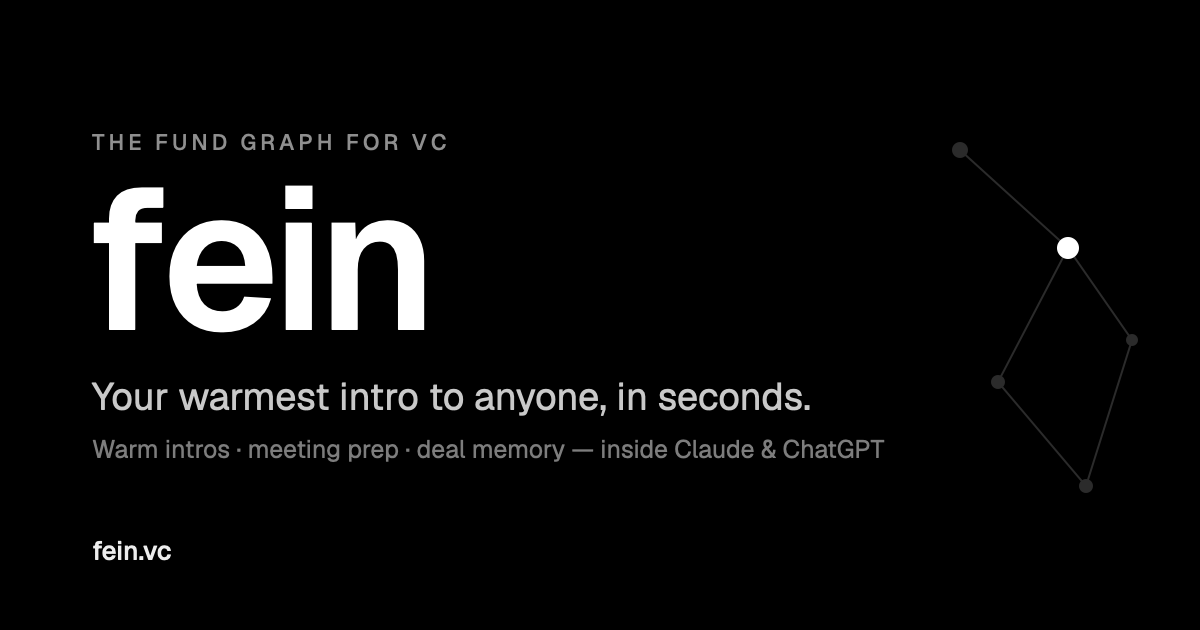
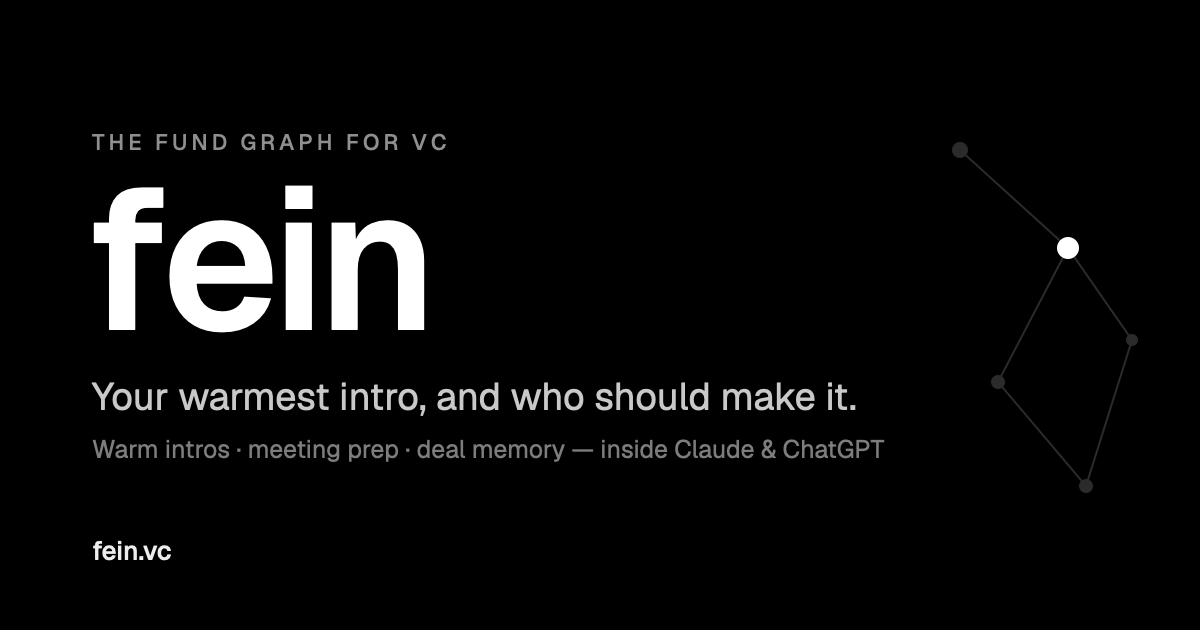
Rewrite copy: pain-agitate-solution, outcome-focused, anti-slop
From a Vicunea + Affinity analysis workflow. Concrete receipts over adjectives,
simpler and more accessible throughout; OG image + JSON-LD FAQ updated to match.

Changed region(s): [[0.3392, 0.6032, 0.7092, 0.6635]]

diff --git a/index.html b/index.html
@@ -4,7 +4,7 @@
 <meta charset="utf-8">
 <meta name="viewport" content="width=device-width, initial-scale=1">
 <title>fein — the fund graph for venture capital</title>
-<meta name="description" content="fein turns your fund's inbox, calendar, and CRM into one live map of who knows whom — and answers from inside Claude and ChatGPT. Warm intros, meeting prep, and every deal you've seen. Live in 14 days, self-hosted on your own infrastructure.">
+<meta name="description" content="fein connects your fund's inbox, calendar, Drive, and CRM into one map of who knows whom, and answers from inside Claude and ChatGPT: the warmest path to a founder, meeting prep, and why you passed last time. Live in 14 days, self-hosted.">
 <link rel="canonical" href="https://fein.vc/">
 <meta name="robots" content="index, follow, max-image-preview:large, max-snippet:-1">
 <meta name="color-scheme" content="light dark">
@@ -17,7 +17,7 @@
 <meta property="og:type" content="website">
 <meta property="og:site_name" content="fein">
 <meta property="og:title" content="fein — the fund graph for venture capital">
-<meta property="og:description" content="fein turns your fund's inbox, calendar, and CRM into one live map of who knows whom — and answers from inside Claude and ChatGPT. Warm intros, meeting prep, and every deal you've seen. Live in 14 days, self-hosted on your own infrastructure.">
+<meta property="og:description" content="fein connects your fund's inbox, calendar, Drive, and CRM into one map of who knows whom, and answers from inside Claude and ChatGPT: the warmest path to a founder, meeting prep, and why you passed last time. Live in 14 days, self-hosted.">
 <meta property="og:url" content="https://fein.vc/">
 <meta property="og:image" content="https://fein.vc/og.png">
 <meta property="og:image:width" content="1200">
@@ -25,7 +25,7 @@
 <meta property="og:image:alt" content="fein — the fund graph for venture capital">
 <meta name="twitter:card" content="summary_large_image">
 <meta name="twitter:title" content="fein — the fund graph for venture capital">
-<meta name="twitter:description" content="fein turns your fund's inbox, calendar, and CRM into one live map of who knows whom — and answers from inside Claude and ChatGPT. Warm intros, meeting prep, and every deal you've seen. Live in 14 days, self-hosted on your own infrastructure.">
+<meta name="twitter:description" content="fein connects your fund's inbox, calendar, Drive, and CRM into one map of who knows whom, and answers from inside Claude and ChatGPT: the warmest path to a founder, meeting prep, and why you passed last time. Live in 14 days, self-hosted.">
 <meta name="twitter:image" content="https://fein.vc/og.png">
 <style>
[1 lines of base64/hex data omitted]
@@ -228,7 +228,7 @@
     *{animation-duration:.001ms!important;animation-iteration-count:1!important;transition-duration:.001ms!important}
   }
 </style>
-<script type="application/ld+json">{"@context":"https://schema.org","@graph":[{"@type":"Organization","@id":"https://fein.vc/#org","name":"fein","url":"https://fein.vc/","description":"fein turns your fund's inbox, calendar, and CRM into one live map of who knows whom — and answers from inside Claude and ChatGPT. Warm intros, meeting prep, and every deal you've seen. Live in 14 days, self-hosted on your own infrastructure.","email":"hello@fein.vc","logo":"https://fein.vc/favicon.svg"},{"@type":"WebSite","@id":"https://fein.vc/#website","url":"https://fein.vc/","name":"fein","inLanguage":"en","publisher":{"@id":"https://fein.vc/#org"}},{"@type":"WebPage","@id":"https://fein.vc/#webpage","url":"https://fein.vc/","name":"fein — the fund graph for venture capital","description":"fein turns your fund's inbox, calendar, and CRM into one live map of who knows whom — and answers from inside Claude and ChatGPT. Warm intros, meeting prep, and every deal you've seen. Live in 14 days, self-hosted on your own infrastructure.","isPartOf":{"@id":"https://fein.vc/#website"},"about":{"@id":"https://fein.vc/#org"},"inLanguage":"en"},{"@type":"SoftwareApplication","name":"fein","applicationCategory":"BusinessApplication","operatingSystem":"Web (self-hosted)","description":"fein turns your fund's inbox, calendar, and CRM into one live map of who knows whom — and answers from inside Claude and ChatGPT. Warm intros, meeting prep, and every deal you've seen. Live in 14 days, self-hosted on your own infrastructure.","url":"https://fein.vc/","provider":{"@id":"https://fein.vc/#org"},"audience":{"@type":"Audience","audienceType":"Venture capital funds"},"offers":[{"@type":"Offer","name":"Build","price":"5000","priceCurrency":"USD","description":"One-time setup and build"},{"@type":"Offer","name":"Maintenance","priceCurrency":"USD","description":"Monthly maintenance and updates","priceSpecification":{"@type":"UnitPriceSpecification","price":"1000","priceCurrency":"USD","unitText":"MONTH"}}]},{"@type":"FAQPage","@id":"https://fein.vc/#faq","mainEntity":[{"@type":"Question","name":"What is fein?","acceptedAnswer":{"@type":"Answer","text":"fein is a relationship-intelligence layer for venture capital funds. It connects your CRM, inbox, and calendar into one live graph of who knows whom, and lets you ask questions about it in plain language from AI tools like Claude and ChatGPT."}},{"@type":"Question","name":"How is fein different from a CRM like Affinity or Attio?","acceptedAnswer":{"@type":"Answer","text":"A CRM is a database your team updates by hand. fein builds and maintains the graph automatically from the systems you already use, and answers inside your AI tools — there's no new platform to log into or keep current."}},{"@type":"Question","name":"How much does fein cost?","acceptedAnswer":{"@type":"Answer","text":"$5,000 one-time to build, then $1,000 per month to keep it running and current — about $17,000 in the first year, less than one month of a data hire."}},{"@type":"Question","name":"How long does it take to go live?","acceptedAnswer":{"@type":"Answer","text":"Two weeks. One 30-minute call to map your systems, then it is answering inside your AI tools after a second short call. Two calls is your whole part."}},{"@type":"Question","name":"Where does our data live? Is it secure?","acceptedAnswer":{"@type":"Answer","text":"fein runs on your own infrastructure. Your data never leaves your environment, the code is open source and auditable, and access is enforced per person on every query."}},{"@type":"Question","name":"Which tools does fein connect to?","acceptedAnswer":{"@type":"Answer","text":"Your inbox, calendar, and Google Drive, plus CRMs like Attio. It answers from Claude, ChatGPT, and Cursor over a single endpoint, so your team keeps using the tools they already have."}}]}]}</script>
+<script type="application/ld+json">{"@context":"https://schema.org","@graph":[{"@type":"Organization","@id":"https://fein.vc/#org","name":"fein","url":"https://fein.vc/","description":"fein connects your fund's inbox, calendar, Drive, and CRM into one map of who knows whom, and answers from inside Claude and ChatGPT: the warmest path to a founder, meeting prep, and why you passed last time. Live in 14 days, self-hosted.","email":"hello@fein.vc","logo":"https://fein.vc/favicon.svg"},{"@type":"WebSite","@id":"https://fein.vc/#website","url":"https://fein.vc/","name":"fein","inLanguage":"en","publisher":{"@id":"https://fein.vc/#org"}},{"@type":"WebPage","@id":"https://fein.vc/#webpage","url":"https://fein.vc/","name":"fein — the fund graph for venture capital","description":"fein connects your fund's inbox, calendar, Drive, and CRM into one map of who knows whom, and answers from inside Claude and ChatGPT: the warmest path to a founder, meeting prep, and why you passed last time. Live in 14 days, self-hosted.","isPartOf":{"@id":"https://fein.vc/#website"},"about":{"@id":"https://fein.vc/#org"},"inLanguage":"en"},{"@type":"SoftwareApplication","name":"fein","applicationCategory":"BusinessApplication","operatingSystem":"Web (self-hosted)","description":"fein connects your fund's inbox, calendar, Drive, and CRM into one map of who knows whom, and answers from inside Claude and ChatGPT: the warmest path to a founder, meeting prep, and why you passed last time. Live in 14 days, self-hosted.","url":"https://fein.vc/","provider":{"@id":"https://fein.vc/#org"},"audience":{"@type":"Audience","audienceType":"Venture capital funds"},"offers":[{"@type":"Offer","name":"Build","price":"5000","priceCurrency":"USD","description":"One-time setup and build"},{"@type":"Offer","name":"Maintenance","priceCurrency":"USD","description":"Monthly maintenance and updates","priceSpecification":{"@type":"UnitPriceSpecification","price":"1000","priceCurrency":"USD","unitText":"MONTH"}}]},{"@type":"FAQPage","@id":"https://fein.vc/#faq","mainEntity":[{"@type":"Question","name":"What is fein?","acceptedAnswer":{"@type":"Answer","text":"One relationship graph for your fund. It connects your inbox, calendar, Drive, and CRM, then answers questions inside Claude, ChatGPT, and Cursor: who's closest to a founder, how to prep for a meeting, and why you passed last time."}},{"@type":"Question","name":"How is this different from a CRM like Affinity or Attio?","acceptedAnswer":{"@type":"Answer","text":"A CRM is a place you have to keep current. fein reads the systems you already use, including your CRM like Attio, and stays current on its own. It answers from inside your AI tools instead of asking you to open another app. You log nothing."}},{"@type":"Question","name":"What does it cost?","acceptedAnswer":{"@type":"Answer","text":"$5,000 once to build it, then $1,000 a month. About $17,000 in year one, less than one month of a data hire. One build fee, one monthly line, no per-seat pricing."}},{"@type":"Question","name":"How long until it's live, and what do we do?","acceptedAnswer":{"@type":"Answer","text":"Fourteen days. Your part is two short calls: thirty minutes to map your systems, one more to walk your team through it. We do everything in between."}},{"@type":"Question","name":"Where does our data live, and who can see what?","acceptedAnswer":{"@type":"Answer","text":"On your own infrastructure. Nothing leaves your environment. The code is open source, so you can audit exactly what touches your data, and access is checked per person on every query."}},{"@type":"Question","name":"What does it connect to, and how do we use it?","acceptedAnswer":{"@type":"Answer","text":"Your inbox, calendar, Google Drive, and a CRM like Attio go in. You ask from Claude, ChatGPT, or Cursor over a single MCP endpoint. No new app to open."}}]}]}</script>
 </head>
 <body>
 
@@ -249,8 +249,8 @@
   <section class="hero">
     <div class="wrap">
       <span class="eyebrow">The fund graph for venture capital</span>
-      <h1>Your warmest intro to anyone, in seconds.</h1>
-      <p class="sub">fein turns your fund's inbox, calendar, and CRM into one live map of who knows whom — and answers from inside Claude and ChatGPT. Warm paths, meeting prep, and every deal you've ever seen.</p>
+      <h1>Your warmest intro to anyone, and who should make it.</h1>
+      <p class="sub">fein connects your fund's inbox, calendar, Drive, and CRM into one map of who knows whom. Ask inside Claude or ChatGPT: the warmest path to a founder, prep from your own history, and why you passed last time.</p>
       <div class="actions">
         <a class="btn btn-primary" href="#get-started">Get started <span class="arw">→</span></a>
         <a class="btn btn-ghost" href="#plan">See how it works</a>
@@ -270,8 +270,8 @@
   <section class="band problem">
     <div class="wrap">
       <span class="eyebrow">The problem</span>
-      <p class="big">Your most valuable asset is invisible.</p>
-      <p class="detail">Twenty years of relationships sit in inboxes, calendars, and a CRM nobody keeps current. <b>The intro that closes your next deal is in there.</b> So is the reason you passed on a founder last year. None of it is one question away — and when a partner leaves, their network leaves with them.</p>
+      <p class="big">The warm intro was in a colleague's inbox all along.</p>
+      <p class="detail">You found out after the round closed. Twenty years of relationships sit in inboxes and a CRM nobody keeps current. <b>The intro that closes your next deal is in there.</b> So is the reason you passed on a founder last year. None of it is one question away. And when a partner leaves, their network walks out with them.</p>
     </div>
   </section>
 
@@ -279,14 +279,14 @@
     <div class="wrap">
       <div class="head">
         <span class="eyebrow">What you get</span>
-        <h2>Your network, finally working for you.</h2>
-        <p>Ask in plain language, inside the tools your team already uses.</p>
+        <h2>Your network, finally answering.</h2>
+        <p>Ask in plain words, inside the tools your team already uses.</p>
       </div>
       <div class="ogrid">
-        <div class="oc"><h3>Find the warm intro instantly.</h3><p>Ask who at your fund is closest to a founder. fein returns the path and the best person to make the introduction.</p></div>
-        <div class="oc"><h3>Walk in already prepped.</h3><p>Who's in the room, how you know them, and what you last discussed — before the meeting starts, not after.</p></div>
-        <div class="oc"><h3>Never redo a pass.</h3><p>Every company your fund has seen, and exactly why you passed, one question away instead of lost in someone's inbox.</p></div>
-        <div class="oc"><h3>Keep key relationships warm.</h3><p>fein flags the people you're overdue with — judged by your own history together, not a generic reminder.</p></div>
+        <div class="oc"><h3>Find the warm path</h3><p>Ask who at your fund is closest to a founder. fein names the path and the best person to make the intro.</p></div>
+        <div class="oc"><h3>Walk in prepped</h3><p>Who's in the room, how you know them, what you last talked about. Ready before the meeting, not pieced together after.</p></div>
+        <div class="oc"><h3>Never redo a pass</h3><p>Every company your fund has seen, and why you passed, with the memo it came from. One question, not another diligence cycle.</p></div>
+        <div class="oc"><h3>Catch the ones going cold</h3><p>fein flags who you're overdue with, judged by your rhythm together. Usually every 10 days, now six days overdue.</p></div>
       </div>
     </div>
   </section>
@@ -296,17 +296,17 @@
       <div class="head">
         <span class="eyebrow">Under the hood</span>
         <h2>Not another CRM to keep updated.</h2>
-        <p>fein reads the systems you already have and keeps itself current. Nothing new for your team to maintain.</p>
+        <p>It reads the systems you already have and stays current on its own. Nothing new to maintain.</p>
       </div>
       <div class="bento">
-        <div class="cell"><div class="n">One clean record</div><p>Each person and company matched into a single profile across every system.</p></div>
-        <div class="cell"><div class="n">Strength, not just contacts</div><p>Every relationship scored from real meetings, replies, and recency.</p></div>
-        <div class="cell"><div class="n">Warm paths</div><p>The shortest strong route to anyone you want to reach.</p></div>
-        <div class="cell"><div class="n">Radar</div><p>Who's due, cooling, or gone quiet — surfaced before you lose them.</p></div>
-        <div class="cell"><div class="n">Fund memory</div><p>Every invest and pass, kept with the reasoning behind it.</p></div>
-        <div class="cell"><div class="n">Inside your AI tools</div><p>One endpoint for Claude, ChatGPT, and Cursor. No new app.</p></div>
-        <div class="cell"><div class="n">Private by person</div><p>Your private threads stay yours. Access is checked on every answer.</p></div>
-        <div class="cell"><div class="n">Every answer sourced</div><p>See where each fact came from. Logged, and yours to audit.</p></div>
+        <div class="cell"><div class="n">One clean record</div><p>"M. Chen" and "Maya Chen" across your tools, matched into one person.</p></div>
+        <div class="cell"><div class="n">Strength, with receipts</div><p>3 meetings, 2 emails, 1 shared doc. Nothing guessed.</p></div>
+        <div class="cell"><div class="n">Warm paths</div><p>Every route to a founder, ranked by its weakest hop.</p></div>
+        <div class="cell"><div class="n">Radar for cold ties</div><p>Who you're overdue with, judged by your own rhythm.</p></div>
+        <div class="cell"><div class="n">Deal memory</div><p>Every company you've seen, and why you passed, kept for good.</p></div>
+        <div class="cell"><div class="n">Inside your AI tools</div><p>Answers in Claude, ChatGPT, and Cursor over one endpoint. No new app.</p></div>
+        <div class="cell"><div class="n">Access per person</div><p>Checked on every query. People see only what they're cleared for.</p></div>
+        <div class="cell"><div class="n">Every answer sourced</div><p>Each fact links back to the email, meeting, or doc it came from.</p></div>
       </div>
     </div>
   </section>
@@ -316,12 +316,12 @@
       <div class="head">
         <span class="eyebrow">The plan</span>
         <h2>Live in 14 days. Two calls from you.</h2>
-        <p>No data hire. No platform to learn. We build it around your stack and hand you the answers.</p>
+        <p>No data hire. Nothing to learn. We build it around your stack and hand you the answers.</p>
       </div>
       <div class="plan">
-        <div class="pstep"><span class="node"></span><div class="meta"><span class="num">01</span><span>Day 0</span></div><h3>The setup call</h3><p>We sit down for 30 minutes and map your inbox, calendar, Drive, and CRM together.</p></div>
-        <div class="pstep"><span class="node"></span><div class="meta"><span class="num">02</span><span>Days 1–10</span></div><h3>We build it</h3><p>Every contact matched, every relationship scored, every fact linked back to its source. You do nothing.</p></div>
-        <div class="pstep dest"><span class="node"></span><div class="meta"><span class="num">03</span><span>Days 11–14</span></div><h3>You're live</h3><p>It's answering inside your AI tools. One more call to walk your team through it, and it's yours.</p></div>
+        <div class="pstep"><span class="node"></span><div class="meta"><span class="num">01</span><span>Day 0</span></div><h3>The setup call</h3><p>Thirty minutes. We map your inbox, calendar, Drive, and CRM together, then we take it from there.</p></div>
+        <div class="pstep"><span class="node"></span><div class="meta"><span class="num">02</span><span>Days 1–10</span></div><h3>We build it</h3><p>Every contact matched, every relationship scored, every fact linked to its source. You do nothing.</p></div>
+        <div class="pstep dest"><span class="node"></span><div class="meta"><span class="num">03</span><span>Days 11–14</span></div><h3>You're live</h3><p>It's answering inside your AI tools. One call to walk your team through it, and it's yours.</p></div>
       </div>
       <p class="plan-foot">Two calls. <span>That's your whole part.</span></p>
     </div>
@@ -334,7 +334,7 @@
         <h2>It runs on your infrastructure.</h2>
       </div>
       <div>
-        <p class="body">fein installs in your own environment. Your data stays there. The code is open, so you can read exactly what touches it.</p>
+        <p class="body">fein installs in your own environment. Your data never leaves your systems. The code is open, so you can read exactly what touches it.</p>
         <ul>
           <li><b>Self-hosted.</b> Nothing leaves your systems.</li>
           <li><b>Open source.</b> Auditable end to end.</li>
@@ -357,7 +357,7 @@
             <span class="plus">+</span>
             <span class="amt">$1,000</span><span class="u">/ month</span>
           </div>
-          <p class="note">About $17,000 in the first year — less than one month of a data hire.</p>
+          <p class="note">About $17,000 your first year. Less than one month of a data hire, and no per-seat pricing.</p>
           <div class="actions"><a class="btn btn-primary" href="#get-started">Get started <span class="arw">→</span></a></div>
         </div>
         <div class="covers">
@@ -375,12 +375,12 @@
         <h2>Questions, answered.</h2>
       </div>
       <div class="faq-list">
-        <details><summary>What is fein?</summary><p>fein is a relationship-intelligence layer for venture capital funds. It connects your CRM, inbox, and calendar into one live graph of who knows whom, and lets you ask questions about it in plain language from AI tools like Claude and ChatGPT.</p></details>
-        <details><summary>How is fein different from a CRM like Affinity or Attio?</summary><p>A CRM is a database your team updates by hand. fein builds and maintains the graph automatically from the systems you already use, and answers inside your AI tools — there's no new platform to log into or keep current.</p></details>
-        <details><summary>How much does fein cost?</summary><p>$5,000 one-time to build, then $1,000 per month to keep it running and current — about $17,000 in the first year, less than one month of a data hire.</p></details>
-        <details><summary>How long does it take to go live?</summary><p>Two weeks. One 30-minute call to map your systems, then it is answering inside your AI tools after a second short call. Two calls is your whole part.</p></details>
-        <details><summary>Where does our data live? Is it secure?</summary><p>fein runs on your own infrastructure. Your data never leaves your environment, the code is open source and auditable, and access is enforced per person on every query.</p></details>
-        <details><summary>Which tools does fein connect to?</summary><p>Your inbox, calendar, and Google Drive, plus CRMs like Attio. It answers from Claude, ChatGPT, and Cursor over a single endpoint, so your team keeps using the tools they already have.</p></details>
+        <details><summary>What is fein?</summary><p>One relationship graph for your fund. It connects your inbox, calendar, Drive, and CRM, then answers questions inside Claude, ChatGPT, and Cursor: who's closest to a founder, how to prep for a meeting, and why you passed last time.</p></details>
+        <details><summary>How is this different from a CRM like Affinity or Attio?</summary><p>A CRM is a place you have to keep current. fein reads the systems you already use, including your CRM like Attio, and stays current on its own. It answers from inside your AI tools instead of asking you to open another app. You log nothing.</p></details>
+        <details><summary>What does it cost?</summary><p>$5,000 once to build it, then $1,000 a month. About $17,000 in year one, less than one month of a data hire. One build fee, one monthly line, no per-seat pricing.</p></details>
+        <details><summary>How long until it's live, and what do we do?</summary><p>Fourteen days. Your part is two short calls: thirty minutes to map your systems, one more to walk your team through it. We do everything in between.</p></details>
+        <details><summary>Where does our data live, and who can see what?</summary><p>On your own infrastructure. Nothing leaves your environment. The code is open source, so you can audit exactly what touches your data, and access is checked per person on every query.</p></details>
+        <details><summary>What does it connect to, and how do we use it?</summary><p>Your inbox, calendar, Google Drive, and a CRM like Attio go in. You ask from Claude, ChatGPT, or Cursor over a single MCP endpoint. No new app to open.</p></details>
       </div>
     </div>
   </section>
@@ -389,7 +389,7 @@
     <div class="wrap">
       <span class="eyebrow">Get started</span>
       <h2 style="margin-top:.8rem">Stop losing intros you already have.</h2>
-      <p>Your network is your edge. In two weeks, on your own infrastructure, fein makes it usable.</p>
+      <p>Two weeks. Your own servers. Then every intro you've earned is one question away.</p>
       <div class="actions"><a class="btn btn-primary" href="#get-started">Get started <span class="arw">→</span></a></div>
     </div>
   </section>
